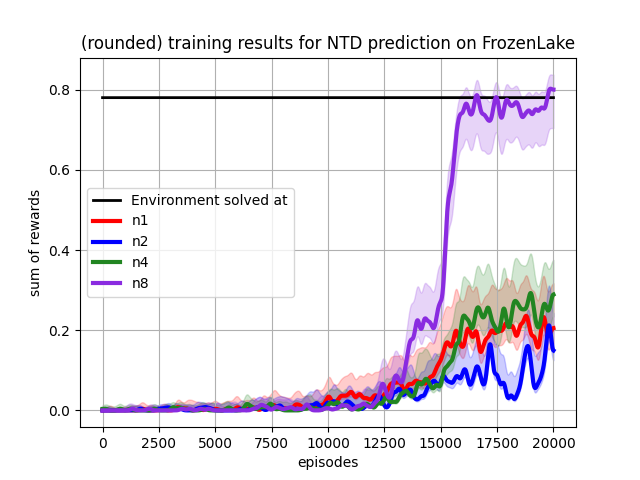
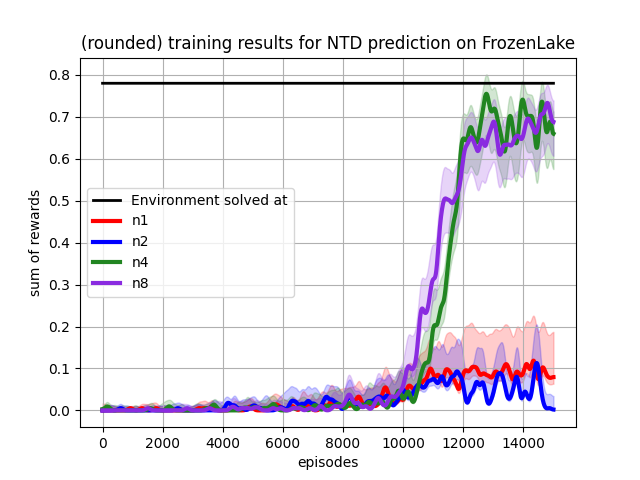
Update ntd comparison

diff --git a/experiments/comparison_n_for_ntd_prediction.py b/experiments/comparison_n_for_ntd_prediction.py
@@ -13,7 +13,7 @@ The results are visualized in a graph stored in an image.
 env = FrozenLakeEnv()
 
 # Hyperparameters:
-training_episodes = 20000
+training_episodes = 15000
 
 hp = dict()
 hp['epsilon'] = 1
